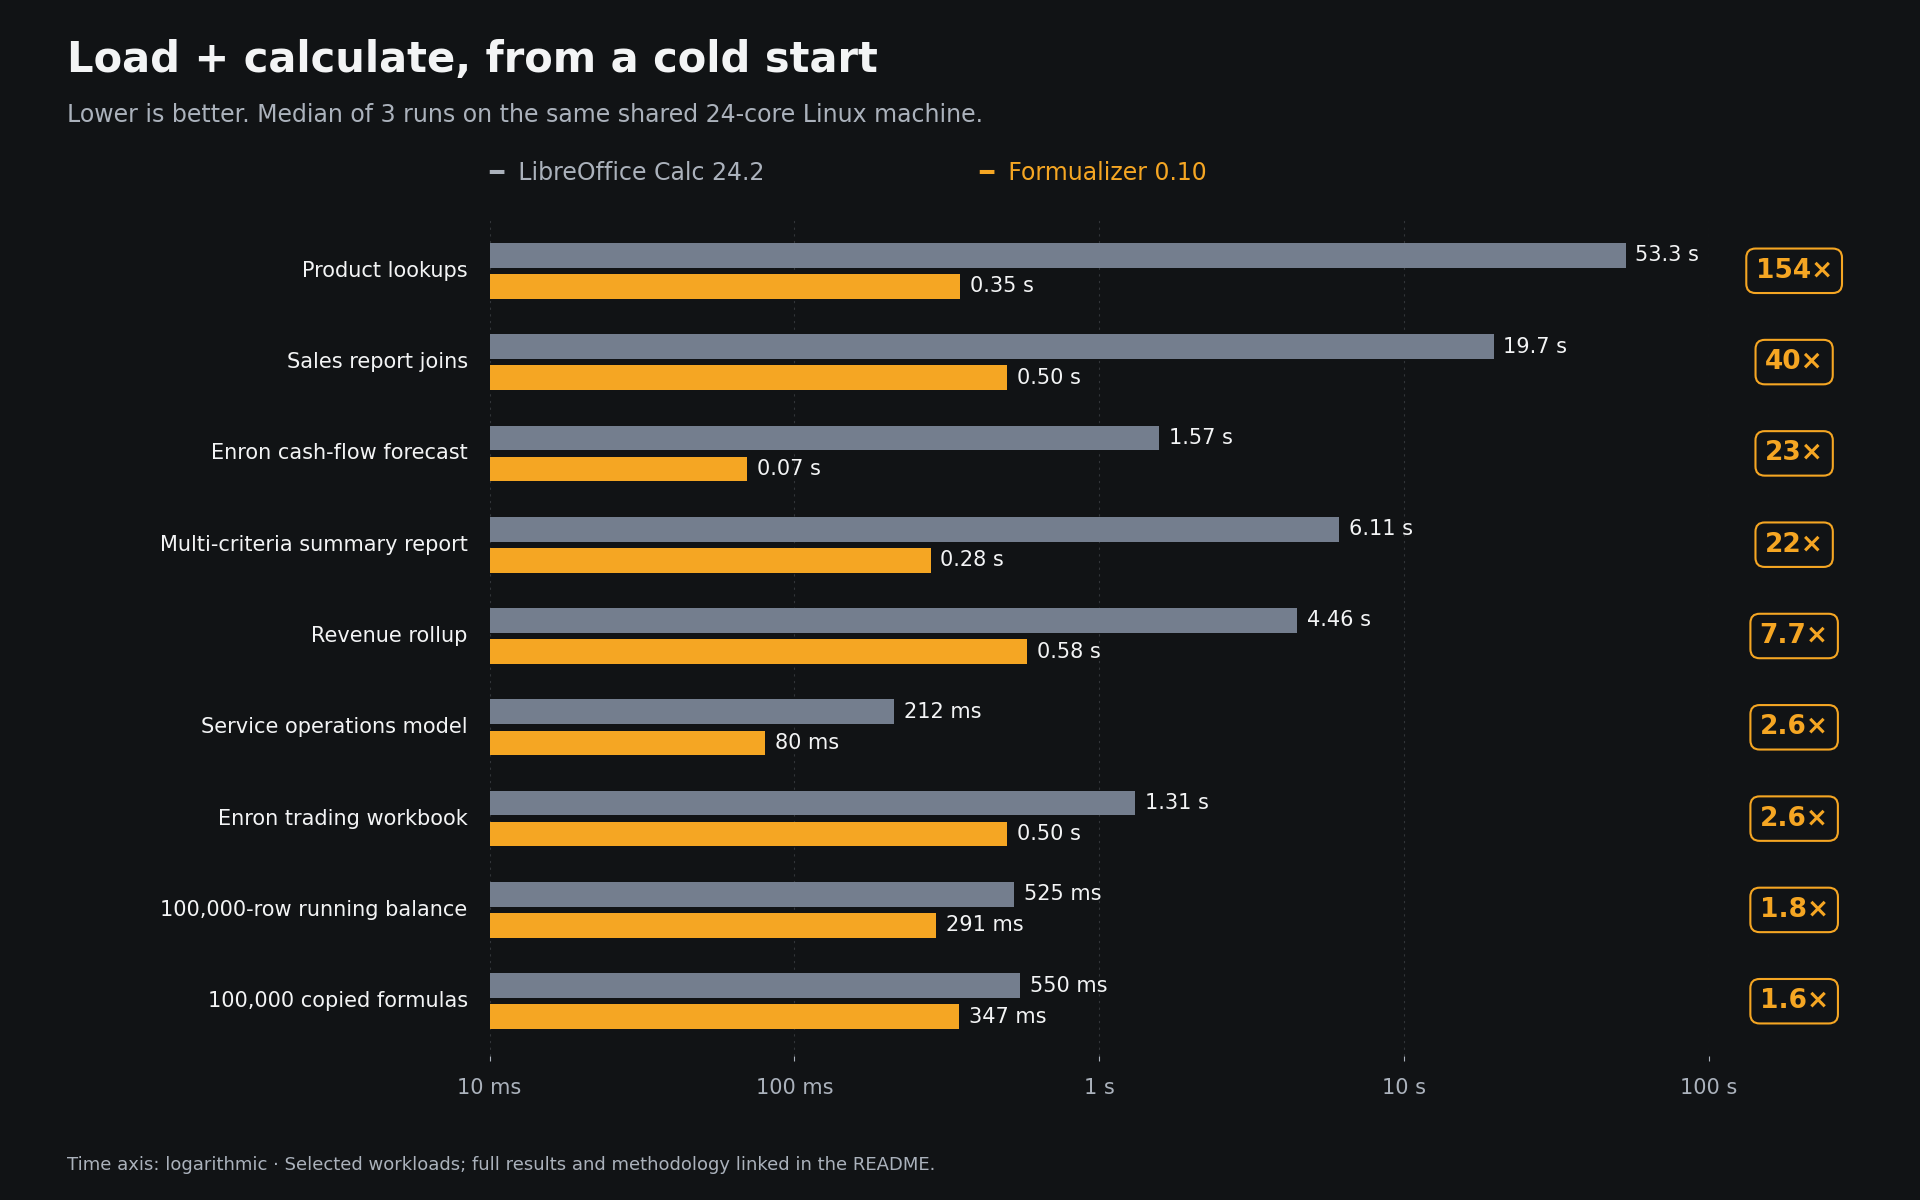
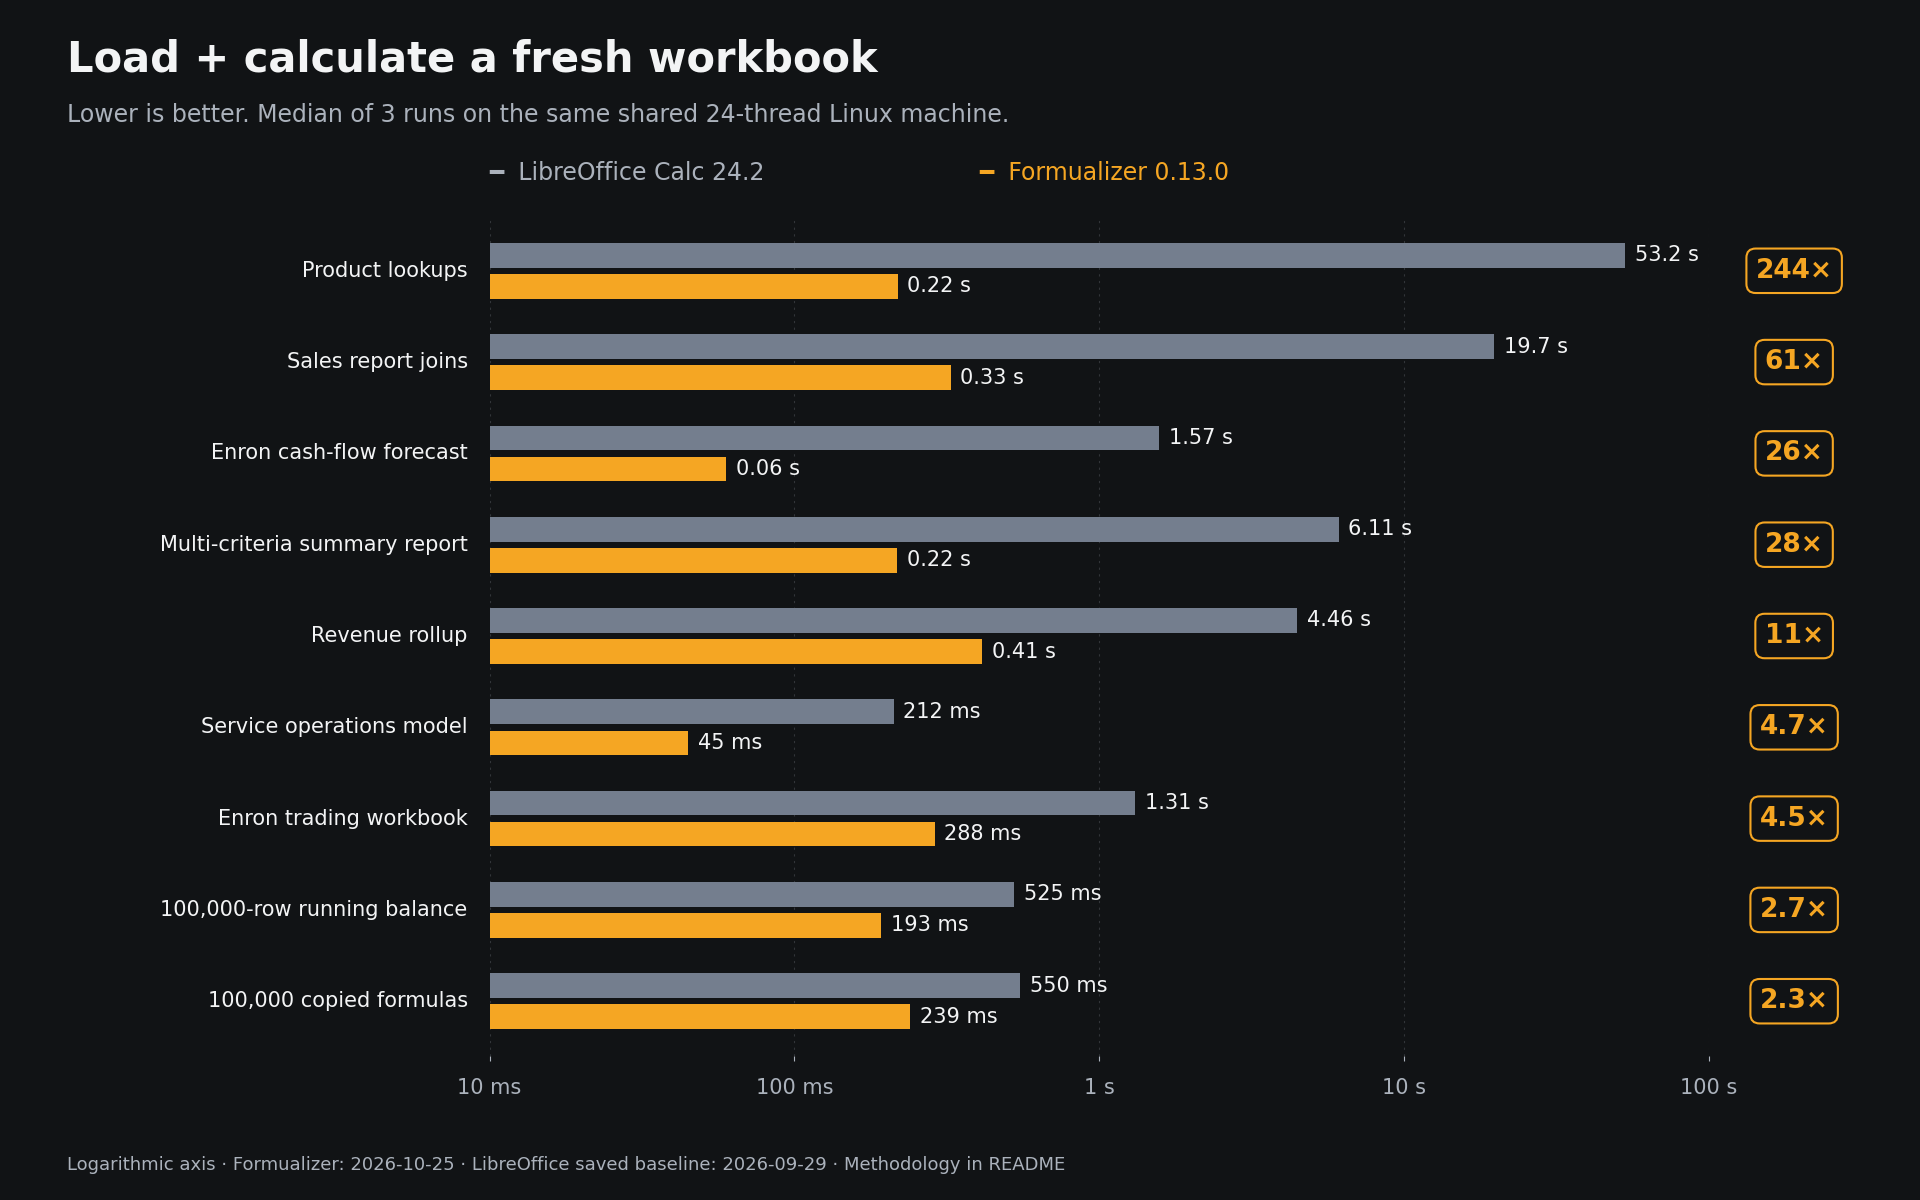
docs: refresh 0.13 benchmark results

diff --git a/README.md b/README.md
@@ -4,7 +4,7 @@
 
 <p align="center"><b><big>The fastest open-source spreadsheet engine.</big></b></p>
 
-<p align="center">A million formulas in 0.38 seconds, anywhere you run code: Rust, Python or JavaScript, on a server, in the browser or at the edge.<br/>Load Excel workbooks, change inputs, recalculate and read results, in-process. Built for AI agents.</p>
+<p align="center">A million formulas in <b>0.26 seconds</b>.<br/>Rust, Python and JavaScript — on servers, in browsers and at the edge.<br/>Load Excel workbooks, change inputs, recalculate and read results, in-process. Built for AI agents.</p>
 
 <p align="center">
   <a href="https://github.com/psu3d0/formualizer/actions/workflows/ci.yml"><img alt="CI" src="https://github.com/psu3d0/formualizer/actions/workflows/ci.yml/badge.svg" /></a>
@@ -47,31 +47,31 @@ Branch on the exit code, inspect `errors`, fix inputs or formulas and repeat; ex
 
 ## How fast?
 
-Load an `.xlsx` and calculate every formula in it, from a cold start. The comparison is headless LibreOffice Calc 24.2 with threaded calculation, the usual open-source way to do this, on the same 24-core Linux machine, median of 3 runs:
+Load an `.xlsx` and calculate every formula in a fresh workbook. **Formualizer 0.13.0 versus LibreOffice Calc 24.2**, the usual open-source way to do this, on the same shared 24-thread Linux machine, median of 3 runs. Formualizer was measured again on current code; LibreOffice's saved baseline is unchanged.
 
 <picture>
   <source media="(prefers-color-scheme: dark)" srcset="https://raw.githubusercontent.com/psu3d0/formualizer/main/assets/benchmark-load-calculate-dark.png" />
-  <img alt="Load and calculate time for nine workloads, comparing LibreOffice Calc 24.2 with Formualizer 0.10 on a logarithmic time axis. Exact values and workload descriptions follow." src="https://raw.githubusercontent.com/psu3d0/formualizer/main/assets/benchmark-load-calculate-light.png" />
+  <img alt="Load and calculate time for nine workloads, comparing LibreOffice Calc 24.2 with Formualizer 0.13.0 on a logarithmic time axis. Exact values and workload descriptions follow." src="https://raw.githubusercontent.com/psu3d0/formualizer/main/assets/benchmark-load-calculate-light.png" />
 </picture>
 
-**Across all 52 workbooks and workloads we measured, Formualizer takes about a quarter of the time and is faster in 48.** The [full report](benchmarks/0.10-vs-0.9.3.md#libreoffice-calc) has the method and the four exceptions. These shared-machine results are indicative, not guarantees for every workload or runtime.
+**Across all 52 workbooks and workloads, Formualizer takes about a fifth of the time and is faster in 50.** The overall time ratio is 0.184× (geometric mean). Native release measurements are from October 25, 2026; the saved LibreOffice baseline is from September 29. These shared-machine results are indicative, not guarantees for every workbook or runtime.
 
 <details>
 <summary>Exact timings and workload descriptions</summary>
 
-Speedups use unrounded measurements; displayed times are rounded.
+Speedups use unrounded measurements; displayed times are rounded. Each case uses the median of three load-plus-first-calculation totals. Formualizer uses the native reader in interactive mode, one fresh process per sample. LibreOffice runs headless with threaded calculation and OpenCL off; listener startup is excluded, and import may itself calculate uncached formulas. Filesystem caches are warm. This is a fresh native run against a saved baseline, not a newly interleaved A/B.
 
-| Workload | LibreOffice | Formualizer | |
+| Workload | LibreOffice 24.2 | Formualizer 0.13.0 | |
 |---|---:|---:|---:|
-| Product lookups <sup>[1]</sup> | 53.3 s | **0.35 s** | **154× faster** |
-| Sales report joins <sup>[2]</sup> | 19.7 s | **0.50 s** | **40× faster** |
-| Enron cash-flow forecast <sup>[3]</sup> | 1.57 s | **0.07 s** | **23× faster** |
-| Multi-criteria summary report <sup>[4]</sup> | 6.11 s | **0.28 s** | **22× faster** |
-| Revenue rollup <sup>[5]</sup> | 4.46 s | **0.58 s** | **7.7× faster** |
-| Service operations model <sup>[6]</sup> | 212 ms | **80 ms** | **2.6× faster** |
-| Enron trading workbook <sup>[7]</sup> | 1.31 s | **0.50 s** | **2.6× faster** |
-| 100,000-row running balance <sup>[8]</sup> | 525 ms | **291 ms** | **1.8× faster** |
-| 100,000 copied formulas <sup>[9]</sup> | 550 ms | **347 ms** | **1.6× faster** |
+| Product lookups <sup>[1]</sup> | 53.2 s | **0.22 s** | **244× faster** |
+| Sales report joins <sup>[2]</sup> | 19.7 s | **0.33 s** | **61× faster** |
+| Enron cash-flow forecast <sup>[3]</sup> | 1.57 s | **0.06 s** | **26× faster** |
+| Multi-criteria summary report <sup>[4]</sup> | 6.11 s | **0.22 s** | **28× faster** |
+| Revenue rollup <sup>[5]</sup> | 4.46 s | **0.41 s** | **11× faster** |
+| Service operations model <sup>[6]</sup> | 212 ms | **45 ms** | **4.7× faster** |
+| Enron trading workbook <sup>[7]</sup> | 1.31 s | **288 ms** | **4.5× faster** |
+| 100,000-row running balance <sup>[8]</sup> | 525 ms | **193 ms** | **2.7× faster** |
+| 100,000 copied formulas <sup>[9]</sup> | 550 ms | **239 ms** | **2.3× faster** |
 
 1. 20,000 query rows, each with two `INDEX`/`MATCH` lookups of a product key in a 50,000-row table.
 2. A 5,000-row report that finds each sale in a 50,000-row fact table on another sheet, then looks up its region and product in two dimension tables (`INDEX`/`MATCH` throughout). The fact table computes 50,000 revenue formulas.
@@ -83,29 +83,15 @@ Speedups use unrounded measurements; displayed times are rounded.
 8. A balance where each row adds to the one above (`=A1+1`, `=A2+1`, …), the hardest shape to parallelize.
 9. One formula (`=A1*2`) filled down 100,000 rows, plus a `SUM` over the results.
 
+The two exceptions are the 100,000-unique-formula witness and one Enron financial model (`Mesa_Model_1_19_01`), where LibreOffice is 1.2× and 2.6× faster, respectively.
+
 </details>
-
-### And against Formualizer 0.9.3
-
-0.10 is a new engine under the same API:
-
-| | 0.9.3 | 0.10 | |
-|---|---:|---:|---:|
-| 1M-formula financial model: load | 25.1 s | 4.2 s | 6× faster |
-| … first calculation | 4.8 s | 0.38 s | 12× faster |
-| … change one input and recalculate | 2.5 s | 52 ms | 47× faster |
-| … memory after calculation | 897 MB | 45 MB | 20× less |
-| Enron spreadsheets (25): load and calculate | | | 3.2× faster |
-| … change an input and recalculate | | | 6.7× faster |
-| … memory after calculation | | | 7.7× less |
-
-Values are unchanged. Every step of the rewrite was checked cell by cell against the previous engine.
 
 ### Why it's fast
 
 ![Illustration of filling a formula down a column, evaluating a formula family, and recalculating dependents after an input edit](https://raw.githubusercontent.com/psu3d0/formualizer/main/assets/formualizer-calc.gif)
 
-*Illustrative animation, not a real-time recording. Its timing figures refer to the financial-model benchmark above.*
+*Illustrative animation, not a real-time recording. The generated million-formula financial model calculated in 0.26 seconds after a separate 2.58-second load; changing one input and recalculating took 48 ms (native release build, ephemeral mode, median of 3 runs).*
 
 - **Copied formulas are one unit.** Fill a formula down 100,000 rows and Formualizer stores one template and one dependency node, and evaluates the run in one pass over typed [Apache Arrow](https://arrow.apache.org/) columns. It does not track 100,000 separate formulas.
 - **Lookups and conditional sums index their table once.** A column of `VLOOKUP`, `INDEX`/`MATCH`, `SUMIFS` or `COUNTIFS` over the same range builds one index for the whole run instead of scanning the table once per row.
@@ -131,18 +117,18 @@ print(wb.get_value("Summary", 5, 2))       # read an output (B5)
 
 ### Rust
 
-In this checkout, the legacy `calamine` feature and `CalamineAdapter` names below are native-reader compatibility aliases. New integrations can use `xlsx-recalc` and `NativeXlsxAdapter`; see the [migration guide](docs/native-xlsx-migration.md).
+The native XLSX reader is the default in 0.13. See the [migration guide](docs/native-xlsx-migration.md) for integrations using legacy Calamine names.
 
 ```toml
 [dependencies]
-formualizer = { version = "0.10", features = ["calamine"] }
+formualizer = { version = "0.13", features = ["xlsx-recalc"] }
 ```
 
 ```rust
-use formualizer::workbook::{CalamineAdapter, SpreadsheetReader};
+use formualizer::workbook::{NativeXlsxAdapter, SpreadsheetReader};
 use formualizer::{LiteralValue, LoadStrategy, Workbook, WorkbookConfig};
 
-let reader = CalamineAdapter::open_path("financial_model.xlsx")?;
+let reader = NativeXlsxAdapter::open_path("financial_model.xlsx")?;
 let mut wb = Workbook::from_reader(reader, LoadStrategy::EagerAll, WorkbookConfig::ephemeral())?;
 wb.set_value("Assumptions", 3, 2, LiteralValue::Number(0.07))?;
 wb.evaluate_all()?;
@@ -438,7 +424,7 @@ formualizer              <-- recommended: batteries-included re-export
 - **`portable-wasm`:** no JS imports, safe for raw `wasm32-unknown-unknown` hosts such as wasmtime. Time functions default to the UTC epoch unless you inject a clock (`FixedClock` or a `ClockProvider`).
 
 ```toml
-formualizer = { version = "0.10", default-features = false, features = ["portable-wasm"] }
+formualizer = { version = "0.13", default-features = false, features = ["portable-wasm"] }
 ```
 
 Native Rust needs no feature selection.

diff --git a/bindings/wasm/README.md b/bindings/wasm/README.md
@@ -13,6 +13,8 @@
 
 **The fastest open-source spreadsheet engine. In your JavaScript app.**
 
+The shared Rust engine calculates a million-formula financial model in **0.26 seconds**. [See the benchmarks](https://github.com/psu3d0/formualizer#how-fast).
+
 Load Excel workbooks, change inputs, recalculate and read results—in the browser, Node.js or a compatible JavaScript edge runtime. Formualizer ships a Rust calculation engine as WebAssembly with a typed JavaScript API. No Excel installation, office-suite process or remote calculation service. Built for AI agents and applications that need spreadsheet logic without a spreadsheet UI.
 
 - **No compromise on speed.** Copied formulas compute as families over Arrow columns; lookups reuse indexes; only affected cells recalculate. The [engine benchmarks](https://github.com/psu3d0/formualizer#how-fast) report native measurements, not browser or edge timings.

diff --git a/bindings/python/README.md b/bindings/python/README.md
@@ -13,6 +13,8 @@
 
 **The fastest open-source spreadsheet engine. Native speed, from Python.**
 
+The shared Rust engine calculates a million-formula financial model in **0.26 seconds**. [See the benchmarks](https://github.com/psu3d0/formualizer#how-fast).
+
 Load Excel workbooks, change inputs, recalculate and read results—in-process, with no Excel installation or office-suite service. Formualizer runs the calculation in Rust and gives you a Python API. Built for financial models, data pipelines and AI agents.
 
 - **No compromise on speed.** Copied formulas compute as families over Arrow columns; lookups reuse indexes; only affected cells recalculate. See the [benchmarks and methodology](https://github.com/psu3d0/formualizer#how-fast).

diff --git a/crates/formualizer-eval/README.md b/crates/formualizer-eval/README.md
@@ -8,6 +8,10 @@
 
 `formualizer-eval` is the calculation core of Formualizer. It takes ASTs from `formualizer-parse`, tracks dependencies between cells, and evaluates 400+ Excel-compatible functions with incremental recomputation and optional parallel execution.
 
+## Native performance
+
+The engine calculates a million-formula financial model in **0.26 seconds**, excluding load. [See the benchmarks](https://github.com/psu3d0/formualizer#how-fast).
+
 ## When to use this crate
 
 Use `formualizer-eval` when you want **full control** over the evaluation engine:

diff --git a/crates/formualizer/README.md b/crates/formualizer/README.md
@@ -8,6 +8,10 @@
 
 `formualizer` is the batteries-included entry point for the Formualizer ecosystem. It re-exports the workbook, engine, parser, and SheetPort crates behind feature flags, so you can depend on a single crate and get everything you need.
 
+## Native performance
+
+A million formulas in **0.26 seconds**, with incremental input recalculation in **48 ms**. [See the benchmarks](https://github.com/psu3d0/formualizer#how-fast).
+
 ## When to use this crate
 
 This is the **recommended default** for most Rust integrations. It gives you:

diff --git a/crates/formualizer-workbook/README.md b/crates/formualizer-workbook/README.md
@@ -8,6 +8,10 @@
 
 `formualizer-workbook` is the recommended high-level interface for Formualizer. It wraps the calculation engine with workbook-friendly APIs for managing sheets, editing cells, evaluating formulas, tracking changes, and importing/exporting files.
 
+## Native performance
+
+A million-formula financial model loads in **2.58 seconds**, then calculates in **0.26 seconds**. [See the benchmarks](https://github.com/psu3d0/formualizer#how-fast).
+
 ## When to use this crate
 
 Use `formualizer-workbook` for **most integrations**:
